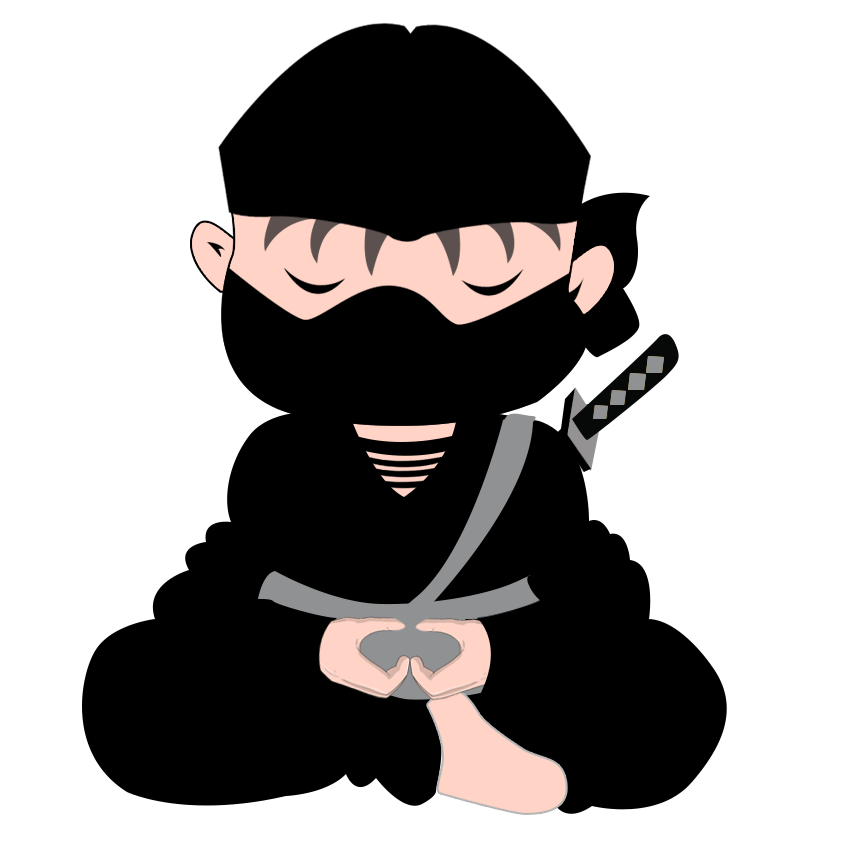
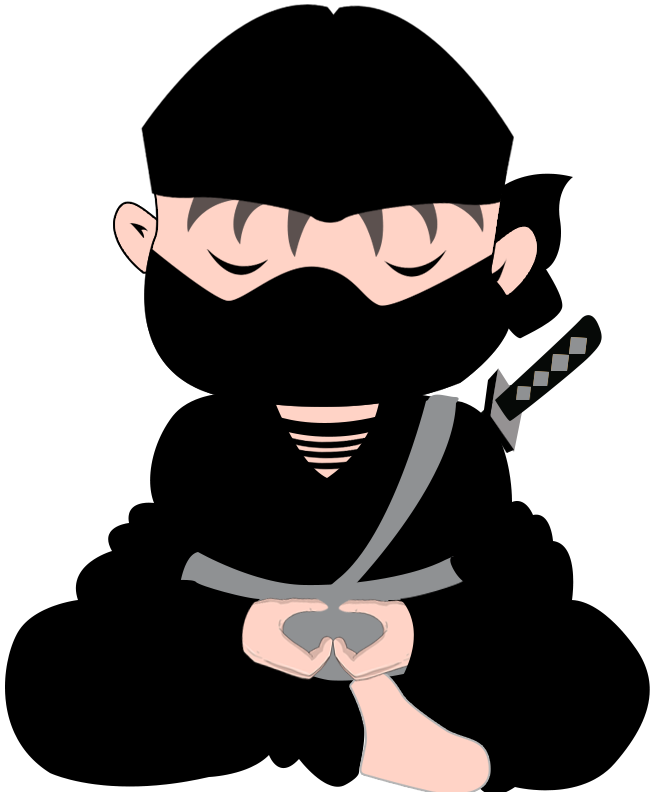
ninja hitbox fixed, image resized

Changed region(s): [[0.0, 0.0, 1.0, 1.0]]

diff --git a/bird.js b/bird.js
@@ -7,9 +7,9 @@ class Bird {
     this.velocity = 0;
 
     this.show = () => {
-      fill(255, 0, 0);
-      //ellipse(this.x, this.y, 32, 32);
-      image(ninja, this.x, this.y, 70, 70)
+      fill(0);
+      image(ninja, 28, this.y - 40, 70, 70)
+      ellipse(this.x, this.y, 32, 32);
     };
 
     this.up = () => {
